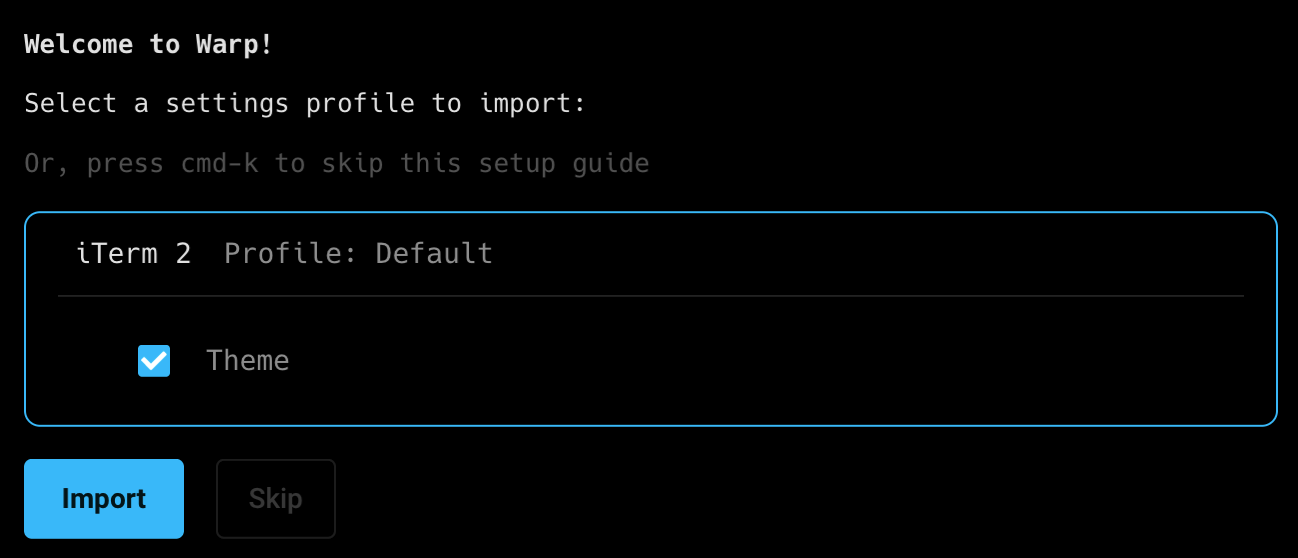
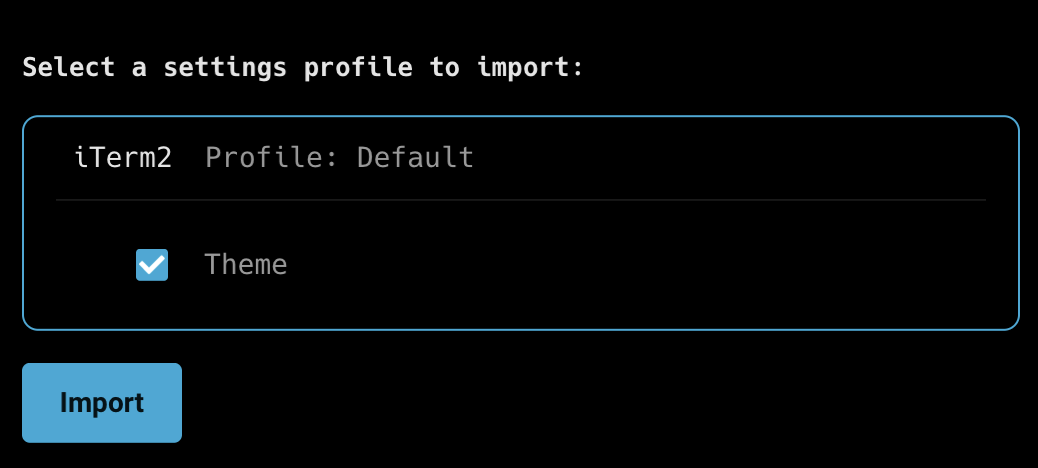
[Onboarding] Update Migrate to Warp page (#302)
* update text

* remove autoformat change

* update picture

* fix grammar

* fix grammar

diff --git a/docs/getting-started/migrate-to-warp.md b/docs/getting-started/migrate-to-warp.md
@@ -8,15 +8,13 @@ description: Learn how to import settings from other terminals when you switch t
 
 You can easily import your settings from iTerm2 to Warp. This includes custom keybindings and color themes.
 
-When you run Warp for the first time, you will get the option to import your default profile from iTerm2.
+To do so, you can open the [Command Palette](../features/command-palette.md) and search for Import External Settings. This will enter you into the workflow to import your settings.
 
 Select **iTerm2 Profile: Default** to import your settings.
 
 <figure><img src="../.gitbook/assets/migrate-to-warp.png" alt=""><figcaption><p>Select a settings profile to import</p></figcaption></figure>
 
 Warp will only import settings associated with the Default profile.
-
-If you are already running Warp but would like to import your iTerm2 profile, you can open the [Command Palette](../features/command-palette.md) and search for the Setup Guide. This will enter you into the workflow to import your settings.
 
 ### Choose your Prompt
 
